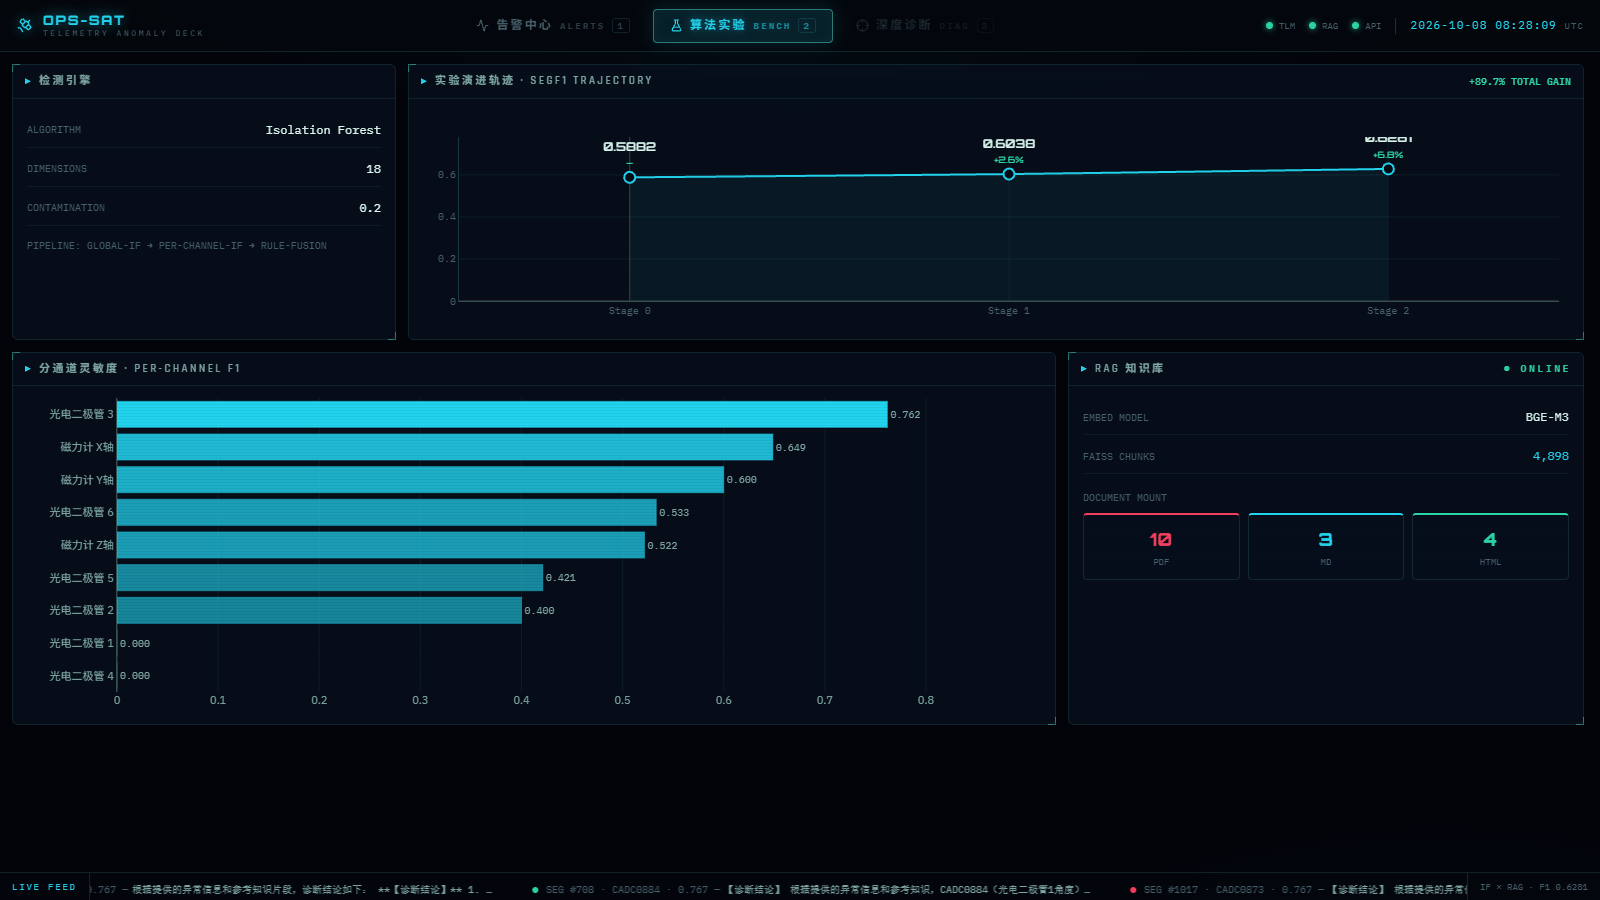
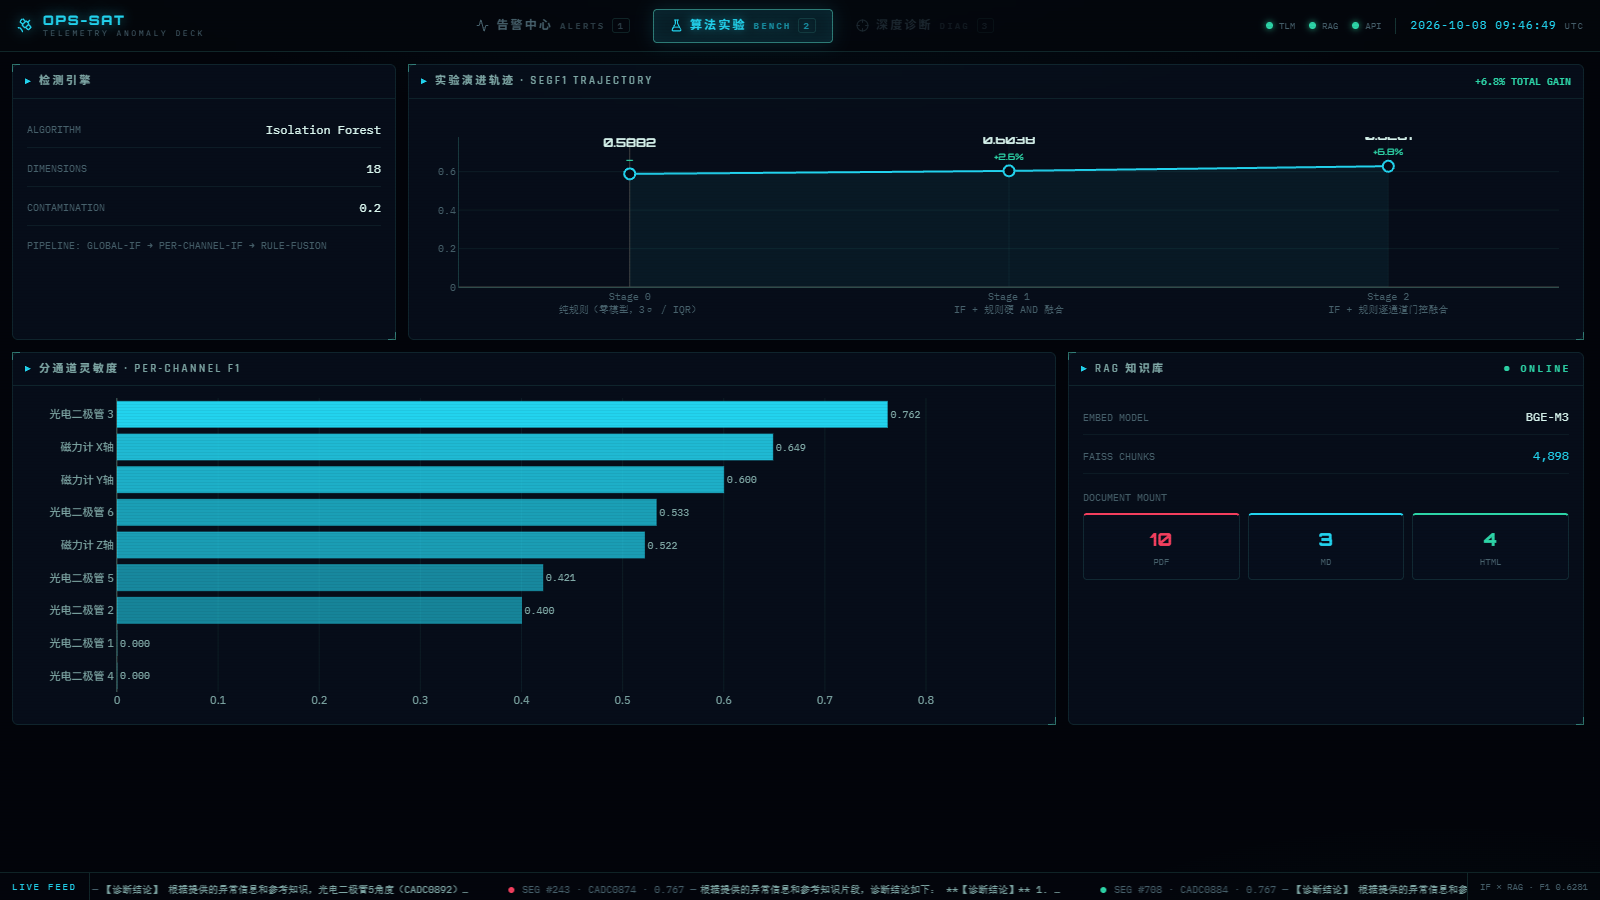
fix(detection): 轨迹总增益改为按数据计算，横轴标出各阶段策略
- 面板标题「+89.7% TOTAL GAIN」是旧数据留下的硬编码，换成论文口径后
  与图内的 +6.8% 自相矛盾 —— 改为由 experiments 首末值实时计算
- 横轴原来只有 Stage 0/1/2，看不出每段改了什么；策略名此前只存在于
  hover 的 customdata 里，静态截图看不到。现并入 ticktext，并加大下边距
- 同步重截 docs/assets/detection.png

diff --git a/frontend/src/views/DetectionView.tsx b/frontend/src/views/DetectionView.tsx
@@ -42,6 +42,11 @@ export default function DetectionView() {
 
   const sortedF1 = [...channelF1].sort((a, b) => b.f1 - a.f1);
 
+  // 总增益由数据算出，不再写死（此前硬编码 +89.7%，数据换成论文口径后会与图自相矛盾）
+  const firstF1 = experiments[0]?.f1;
+  const lastF1 = experiments.length > 0 ? experiments[experiments.length - 1].f1 : undefined;
+  const totalGain = firstF1 && lastF1 ? ((lastF1 - firstF1) / firstF1) * 100 : null;
+
   return (
     <div className="h-full overflow-y-auto space-y-3 pr-1">
       <div className="grid grid-cols-12 gap-3">
@@ -69,7 +74,11 @@ export default function DetectionView() {
         <div className="col-span-12 xl:col-span-9 deck-panel rise rise-1">
           <div className="deck-head justify-between">
             <span className="flex items-center gap-2"><span className="tick" /> 实验演进轨迹 · SEGF1 TRAJECTORY</span>
-            <span className="font-mono text-[10px] text-[#2dd4a7] normal-case tracking-normal">+89.7% TOTAL GAIN</span>
+            {totalGain !== null && (
+              <span className="font-mono text-[10px] text-[#2dd4a7] normal-case tracking-normal">
+                {`${totalGain >= 0 ? '+' : ''}${totalGain.toFixed(1)}% TOTAL GAIN`}
+              </span>
+            )}
           </div>
           <div className="h-[240px] p-1">
             {experiments.length > 0 && (
@@ -92,13 +101,13 @@ export default function DetectionView() {
                 layout={{
                   autosize: true,
                   paper_bgcolor: 'rgba(0,0,0,0)', plot_bgcolor: 'rgba(0,0,0,0)',
-                  margin: { l: 46, r: 20, t: 34, b: 34 },
+                  margin: { l: 46, r: 20, t: 34, b: 48 },
                   font: { family: 'IBM Plex Mono, monospace', color: '#47616c', size: 10 },
                   xaxis: {
                     gridcolor: 'rgba(94,234,212,0.05)', linecolor: 'rgba(94,234,212,0.2)',
                     tickmode: 'array',
                     tickvals: experiments.map((_, i) => i),
-                    ticktext: experiments.map(e => e.version),
+                    ticktext: experiments.map(e => `${e.version}<br>${e.strategy}`),
                     range: [-0.45, experiments.length - 0.55],
                   },
                   yaxis: { gridcolor: 'rgba(94,234,212,0.07)', linecolor: 'rgba(94,234,212,0.2)', range: [0, 0.78] },
